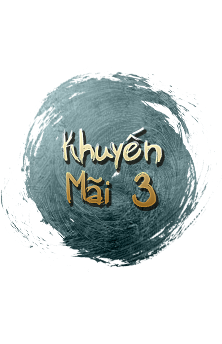
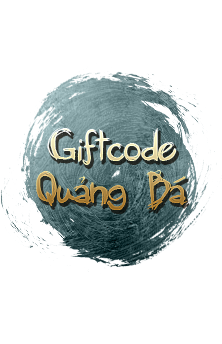
acac

Changed region(s): [[0.1622, 0.3488, 0.8649, 0.6395]]

diff --git a/index.html b/index.html
@@ -161,7 +161,7 @@
                             <div class="row system-details">
                               <div class="col-lg-9 col-8 align-self-center"><span class="system-title">Tru Tiên Hỗn Thế
                                   sắp ra mắt</span></div>
-                              <div class="col-lg-3 col-4 align-self-center"><span class="systemtime">2022/03/18</span>
+                              <div class="col-lg-3 col-4 align-self-center"><span class="systemtime">2024/11/03</span>
                               </div>
                             </div>
                           </a>
@@ -171,7 +171,7 @@
                             <div class="row system-details">
                               <div class="col-lg-9 col-8 align-self-center"><span class="system-title">Hướng dẫn tân
                                   thủ</span></div>
-                              <div class="col-lg-3 col-4 align-self-center"><span class="systemtime">2022/08/03</span>
+                              <div class="col-lg-3 col-4 align-self-center"><span class="systemtime">2024/11/03</span>
                               </div>
                             </div>
                           </a>
@@ -181,7 +181,7 @@
                             <div class="row system-details">
                               <div class="col-lg-9 col-8 align-self-center"><span class="system-title">Hướng dẫn đăng
                                   ký</span></div>
-                              <div class="col-lg-3 col-4 align-self-center"><span class="systemtime">2022/07/27</span>
+                              <div class="col-lg-3 col-4 align-self-center"><span class="systemtime">2024/11/03</span>
                               </div>
                             </div>
                           </a>
@@ -191,7 +191,7 @@
                             <div class="row system-details">
                               <div class="col-lg-9 col-8 align-self-center"><span class="system-title">Hướng dẫn tải
                                   game</span></div>
-                              <div class="col-lg-3 col-4 align-self-center"><span class="systemtime">2022/07/20</span>
+                              <div class="col-lg-3 col-4 align-self-center"><span class="systemtime">2024/11/03</span>
                               </div>
                             </div>
                           </a>
@@ -201,7 +201,7 @@
                             <div class="row system-details">
                               <div class="col-lg-9 col-8 align-self-center"><span class="system-title">Giới thiệu server
                                   Tru Tiên Hỗn Thế</span></div>
-                              <div class="col-lg-3 col-4 align-self-center"><span class="systemtime">2022/07/07</span>
+                              <div class="col-lg-3 col-4 align-self-center"><span class="systemtime">2024/11/03</span>
                               </div>
                             </div>
                           </a>
@@ -280,7 +280,7 @@
               <img class="img-fluid d-lg-none" src="/images/class/titles/tat_mobile.png">
             </div>
             <p>Thiên Âm Tự cùng với Thanh Vân Môn, Phần Hương Cốc là tam đại môn phái chính đạo. Thiên Âm Tự tu tập pháp
-              môn chí cao của Phật môn - Đại Phạm Bát Nhã
+              môn chí cao của Phật môn - Đại Phạm Bát Nhã.
             </p>
           </div>
         </div>
@@ -296,8 +296,8 @@
               <img class="img-fluid d-none d-lg-block" src="/images/class/titles/qvt.png">
               <img class="img-fluid d-lg-none" src="/images/class/titles/qvt_mobile.png">
             </div>
-            <p>Là một nhành trong Thánh Giáo, ba năm trước Quỷ Vương Tông chủ đời thứ nhất tình cờ chiến được quyển
-              Thiên thư thứ 2, thanh danh đại chấn, đem phân chi Quỷ Vương...
+            <p>Là một nhánh trong Thánh Giáo, ba năm trước Quỷ Vương Tông chủ đời thứ nhất tình cờ chiến được quyển
+              Thiên thư thứ 2, thanh danh đại chấn, đem phân chi Quỷ Vương phát dương quang đại trở thành mũi nhọn của Thánh Giáo.
             </p>
           </div>
         </div>
@@ -333,7 +333,7 @@
             </div>
             <p>Trấn thủ ở Nam Cương, Phần Hương là cứ điểm quan trọng của vùng Trung thổ, một trong Tam đại môn phái
               Chính đạo. Từ trước đến nay Phần Hương canh giữ thượng cổ huyền hỏa, không tranh quyền thế, hành tung bí
-              ẩn khiêm nhường. Để phục hưng lại môn phái họ quyết tâm thực thi pháp trận Bát Hung Huyền Hỏa...</p>
+              ẩn khiêm nhường. Để phục hưng lại môn phái họ quyết tâm thực thi pháp trận Bát Hung Huyền Hỏa.</p>
           </div>
         </div>
         <div id="chara07" class="chara_content chara_content_thandue" style="display: none;">
@@ -348,8 +348,7 @@
               <img class="img-fluid d-none d-lg-block" src="/images/class/titles/ls.png">
               <img class="img-fluid d-lg-none" src="/images/class/titles/ls_mobile.png">
             </div>
-            <p>Một trong Thần Duệ ngũ đại huyết độc. Lấy Thiên hồ làm thủy tổ. Là huyết mạng truyền thừa, nam nữa trong
-              tộc đều tuần mỹ tuyệt luân. Kỹ năng sát thương đơn mục tiêu…</p>
+            <p>Một trong Thần Duệ ngũ đại huyết độc. Là huyết mạch truyền thừa, nam nữ trong tộc đều tuấn mỹ tuyệt luân. Gây ra sát thương đơn thể ở khoảng cách xa.</p>
           </div>
         </div>
         <div id="chara08" class="chara_content chara_content_thandue" style="display: none;">
@@ -380,8 +379,7 @@
               <img class="img-fluid d-none d-lg-block" src="/images/class/titles/thaihao.png">
               <img class="img-fluid d-lg-none" src="/images/class/titles/thaihao_mobile.png">
             </div>
-            <p>Hậu nhân của Phục Hi, thờ phục tên của tiên tổ lấy làm tên tộc, tự nhận là thần tộc có huyết thống thuần
-              túy nhất, thích độc lai độc vãng, là đấu sĩ cao đoan chính giỏi giang của Thần Duệ, lưu truyền không bao
+            <p>Hậu nhân của Phục Hi, thờ phụng tên của tiên tổ lấy làm tên tộc, tự nhận là đấu sĩ dũng mãnh, thiện chiến của Thần Duệ, lưu truyền không bao
               lâu trong lịch sử Thần Duệ thì biến mất thần bí.</p>
           </div>
         </div>
@@ -449,8 +447,7 @@
               <img class="img-fluid d-none d-lg-block" src="/images/class/titles/ac.png">
               <img class="img-fluid d-lg-none" src="/images/class/titles/ac_mobile.png">
             </div>
-            <p>Cùng thượng cổ kỳ lân dung hợp, huyễn hóa thành người hoặc kỳ lân. Chỉ có giá trị HP, thể phách cường đại
-              vô cùng uy mãnh.</p>
+            <p>Dung hợp cùng thượng cổ kỳ lân huyết mạch, có khả năng huyễn hóa thành người hoặc kỳ lân. Chuyên tu ngoại công, không có chân khí nhưng lại cường mãnh vô song.</p>
           </div>
         </div>
         <div id="chara014" class="chara_content chara_content_thienmach" style="display: none;">
@@ -465,8 +462,7 @@
               <img class="img-fluid d-none d-lg-block" src="/images/class/titles/kc.png">
               <img class="img-fluid d-lg-none" src="/images/class/titles/kc_mobile.png">
             </div>
-            <p>Thân người nhỏ nhắn, giỏi không chế, có thể triệu hoán khôi lỗi tác chiến, tinh thông cạm bẫy. Hãy luôn
-              cảnh giác khi đối đầu với Khiêu Cơ.</p>
+            <p>Thân người nhỏ nhắn nhưng giỏi khống chế, trong chiến đấu có thể triệu hồi khôi lỗi, đặt nhiều cạm bẫy. Hãy chú ý cảnh giác khi đối đầu với Khiên Cơ.</p>
           </div>
         </div>
         <div id="chara015" class="chara_content chara_content_thienmach" style="display: none;">
@@ -481,8 +477,7 @@
               <img class="img-fluid d-none d-lg-block" src="/images/class/titles/tl.png">
               <img class="img-fluid d-lg-none" src="/images/class/titles/tl_mobile.png">
             </div>
-            <p>Có khống chế năng lực cùng phụ trợ năng lực, liên tục ổn định đơn độc thể phát ra năng lực. Kỹ năng tổ
-              hợp, thao tác đơn giản, đạt được cường lực trạng thái phụ trợ.</p>
+            <p>Tiêu dao tự tại, lúc thì đến như cuồng phong lúc đi tựa gió thoảng. Có khả năng duy trì khống chế và chúc phúc đơn thể trong thời gian dài, kỹ năng đơn chiến mạnh mẽ.</p>
           </div>
         </div>
         <div id="chara016" class="chara_content chara_content_thienmach" style="display: none;">
@@ -497,7 +492,7 @@
               <img class="img-fluid d-none d-lg-block" src="/images/class/titles/pq.png">
               <img class="img-fluid d-lg-none" src="/images/class/titles/pq_mobile.png">
             </div>
-            <p>Đơn thể chiến đấu vì chủ, chiến đấu thủ pháp mau lẹ, am hiểu sử dụng nhiều vũ khí, tổ hợp vũ khí.</p>
+            <p>Độc lai độc vãng, tốc chiến tốc thắng, am hiểu nhiều loại công pháp và vũ khí.</p>
           </div>
         </div>
         <div id="chara017" class="chara_content chara_content_thienmach" style="display: none;">
@@ -512,8 +507,7 @@
               <img class="img-fluid d-none d-lg-block" src="/images/class/titles/qv.png">
               <img class="img-fluid d-lg-none" src="/images/class/titles/qv_mobile.png">
             </div>
-            <p>Có được kim ô cường phát ra năng lực cùng kinh người quần thể bùng nổ, đối thời không lĩnh ngộ khiến cho
-              có thể nghênh ngang tị đoản, đùa bỡn đối thủ trong tay.</p>
+            <p>Sử dụng Kim Tán hộ thể , thấu hiểu thời không công thủ toàn diện. Có khả năng tạo thành sát thương lớn trong phạm vi rộng, nhiều kỹ năng sinh tồn trong giao tranh.</p>
           </div>
         </div>
         <div id="chara018" class="chara_content chara_content_thienmach" style="display: none;">
@@ -683,56 +677,48 @@
     <div class="popup_bg">
       <img class="img-fluid" src="/pop_fuli_bg.png">
       <div class="rewards_txt t1">
-        <h4>Quest Reward</h4>
+        <h4>Giftcode Tân Thủ</h4>
         <div>
-          In order to help Daoist to get better known about cultivation in your journey, Immortal Alliance has prepared
-          7 days goal for your training. Follow the guide to win SSS partner Ning Wuyan
+          Khách đến nhà, có quà giftcode. Món quà nhỏ hỗ trợ Tân Thủ trên con đường hành tẩu tại Tru Tiên Hỗn Thế. Vui lòng nhận tại trang web id.trutienhonthe.com, mục Giftcode sau đó kiểm tra tín sứ.
         </div>
       </div>
       <div class="rewards_txt t2">
-        <h4>7 Days Login</h4>
+        <h4>+50% KNB nạp</h4>
         <div>
-          Sign in for 7 days will can claim a SSS partner Lu Xueqi for free! Besides there are epic weapon as well as
-          precious materials waiting for you!
+          Chặng đường khám phá Tru Tiên Hỗn Thế sẽ thuận lợi hơn với chương trình khuyến mãi +50% Kim Nguyên Bảo khi nạp vào tài khoản. Thao tác tại trang web id.trutienhonthe.com. Lưu ý chương trình chỉ diễn ra trong một thời gian nhất định.
         </div>
       </div>
       <div class="rewards_txt t3">
-        <h4>Blessing</h4>
+        <h4>Quà Event</h4>
         <div>
-          At 21:00-21:30 in the 2nd/ 3rd / 4th day after server released, there are red pocket bonus for all players in
-          server! Collect redpacket passwords to have a chance to obtain Prize as much as 6480 Ingots! An online fellow
-          Daoist will be chosen to give the Sacred Beast Water Kirin!
+          Các sự kiện lớn/nhỏ được tổ chức xuyên suốt cùng những phần thưởng hấp dẫn theo từng mốc giai đoạn.
         </div>
       </div>
       <div class="rewards_txt t4">
-        <h4>Sacred Beast</h4>
+        <h4>Giftcode Fan Cứng</h4>
         <div>
-          5 lucky players who win the chance to buy Sacred Beast Kui Ox in 85% off! All you need to do is drawing lots
-          with 4680 Gold Ingots. ( You will get all your ingots back and some silver for bonus if you haven’t been
-          picked up! )
+          Đồng hành cùng Fanpage Tru Tiên Hỗn Thế và trở thành Fan Cứng để nhận những quà tặng đặc biệt.
         </div>
       </div>
       <div class="rewards_txt t5">
-        <h4>Rebate</h4>
+        <h4>Tôn hiệu đặc biệt</h4>
         <div>
-          The ingots you recharged within first 7 days (within certain amounts ) in game will get a rebate in 8th day
-          based on a certain proportion! (max to 1000%)
+          Tham gia hoạt động ingame để nhận các tôn hiệu được thiết kế riêng cho những người chơi đạt được thành tựu đặc biệt trong Tru Tiên Hỗn Thế. Nội dung chi tiết sẽ được thông báo trên trang chủ và Fanpage.
         </div>
       </div>
       <div class="rewards_txt t6">
-        <h4>Color Dust</h4>
+        <h4>Giftcode Quảng Bá</h4>
         <div>
-          Random Colorful Dust can beobtained by harvesting and claim rewards for Emperor Fruit! Spiritbeast will add
-          stats permanently after using emperor fruit!
+          Phần thưởng hấp dẫn cho những người chơi nhiệt tình quảng bá Tru Tiên Hỗn Thế đến với bạn bè.
         </div>
       </div>
       <div class="rewards_txt t7">
-        <h4>Passion</h4>
+        <h4>Phần Thưởng Đua TOP</h4>
         <div>
-          You can get SS partner Biyao for free after finishing 4 main stories in the first day of your journey.
+          Cao thủ top level sẽ nhận được những phần thưởng vô cùng giá trị, giúp cho hành trình khám phá thế giới Tru Tiên Hỗn Thế được thuận lợi hơn.
         </div>
       </div>
-      <div class="popup_close">Close</div>
+      <div class="popup_close">OK</div>
     </div>
   </div>
 
